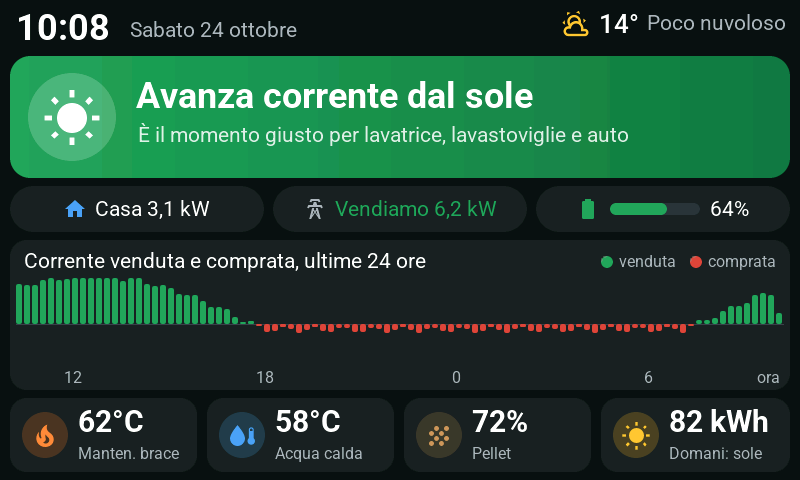
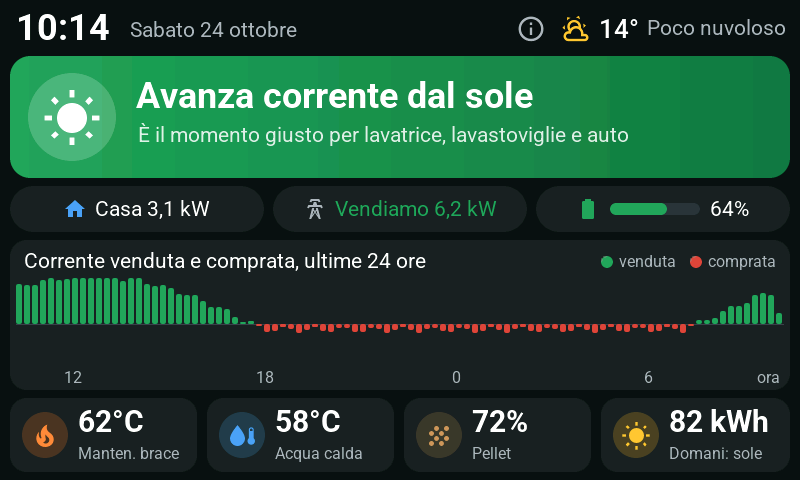
feat: info button with a short how-to-read popup
Claude-Session: https://claude.ai/code/session_018yhPoiFCoFeAhkr3QMpMdf

Changed region(s): [[0.625, 0.0312, 1.0, 0.0938], [0.0625, 0.0312, 0.1562, 0.0938]]

diff --git a/README.md b/README.md
@@ -22,6 +22,7 @@ Waveshare ESP32-S3-Touch-LCD-7: 800x480 RGB panel driven with `rpi_dpi_rgb`, 8 M
 - **Semaforo** — green above `${green_export_w}` (2500 W) exported, yellow in between, red above `${red_import_w}` (800 W) imported. Both are calibration knobs in `ui.yaml`; grid values are averaged over 30 s so the colour does not flicker.
 - **Pills** — `Rete` (grid, or "Rete a zero"), `Casa` (house load) and battery percentage.
 - **Last 24 hours chart** — scrolling window, newest on the right ("ora"): one bar per 15 minutes, green upward for exported energy, red downward for imported, scaled to `chart_full_scale_w`; hour labels move with the bars. Saved to flash once per completed slot (under 1 KB, ~96 writes a day) and restored after a reboot.
+- **Info button** — the (i) next to the weather opens a short "how to read it" popup.
 - **Weather** — current conditions and temperature only (a forecast would need a service call, which is off-limits here).
 - **Big-load reminder** — shown 10:30–12:30 when today's forecast beats `reminder_forecast_kwh`, with the text in `reminder_text`.
 - **Screensaver** — after 60 s idle a big clock replaces the dashboard. At night (22:00–06:30) the backlight turns off after 10 minutes untouched; any touch wakes it and returns to the main page.
